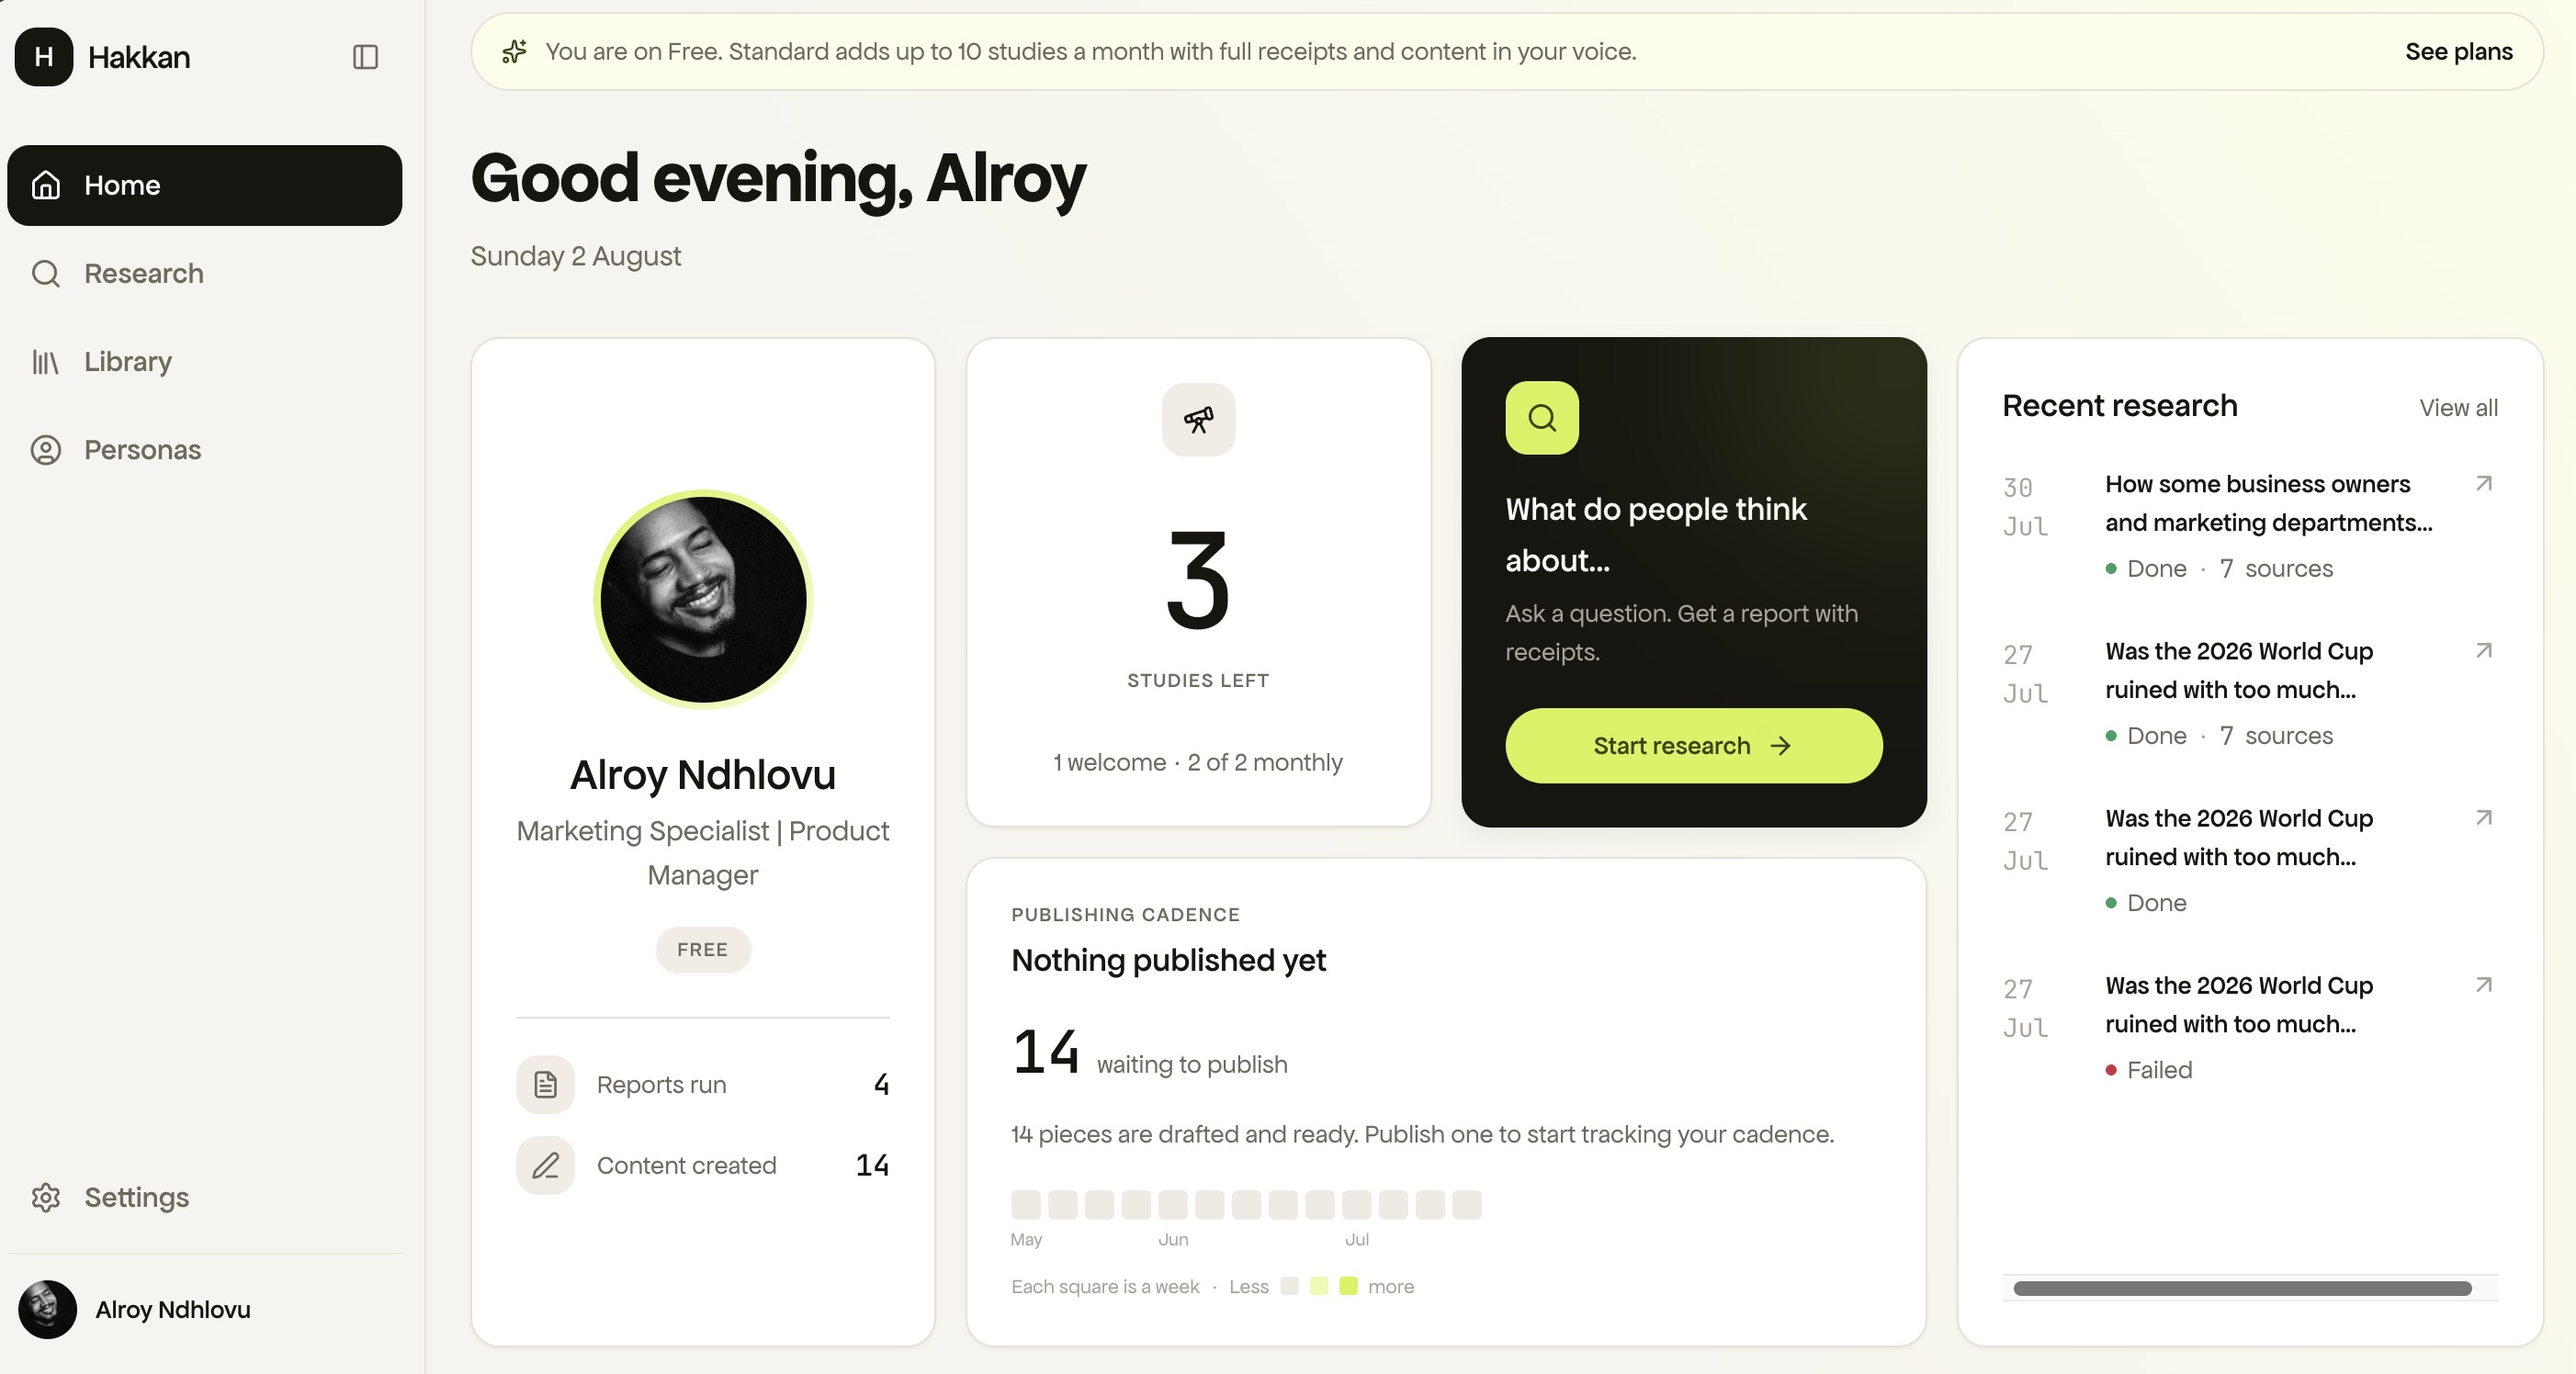
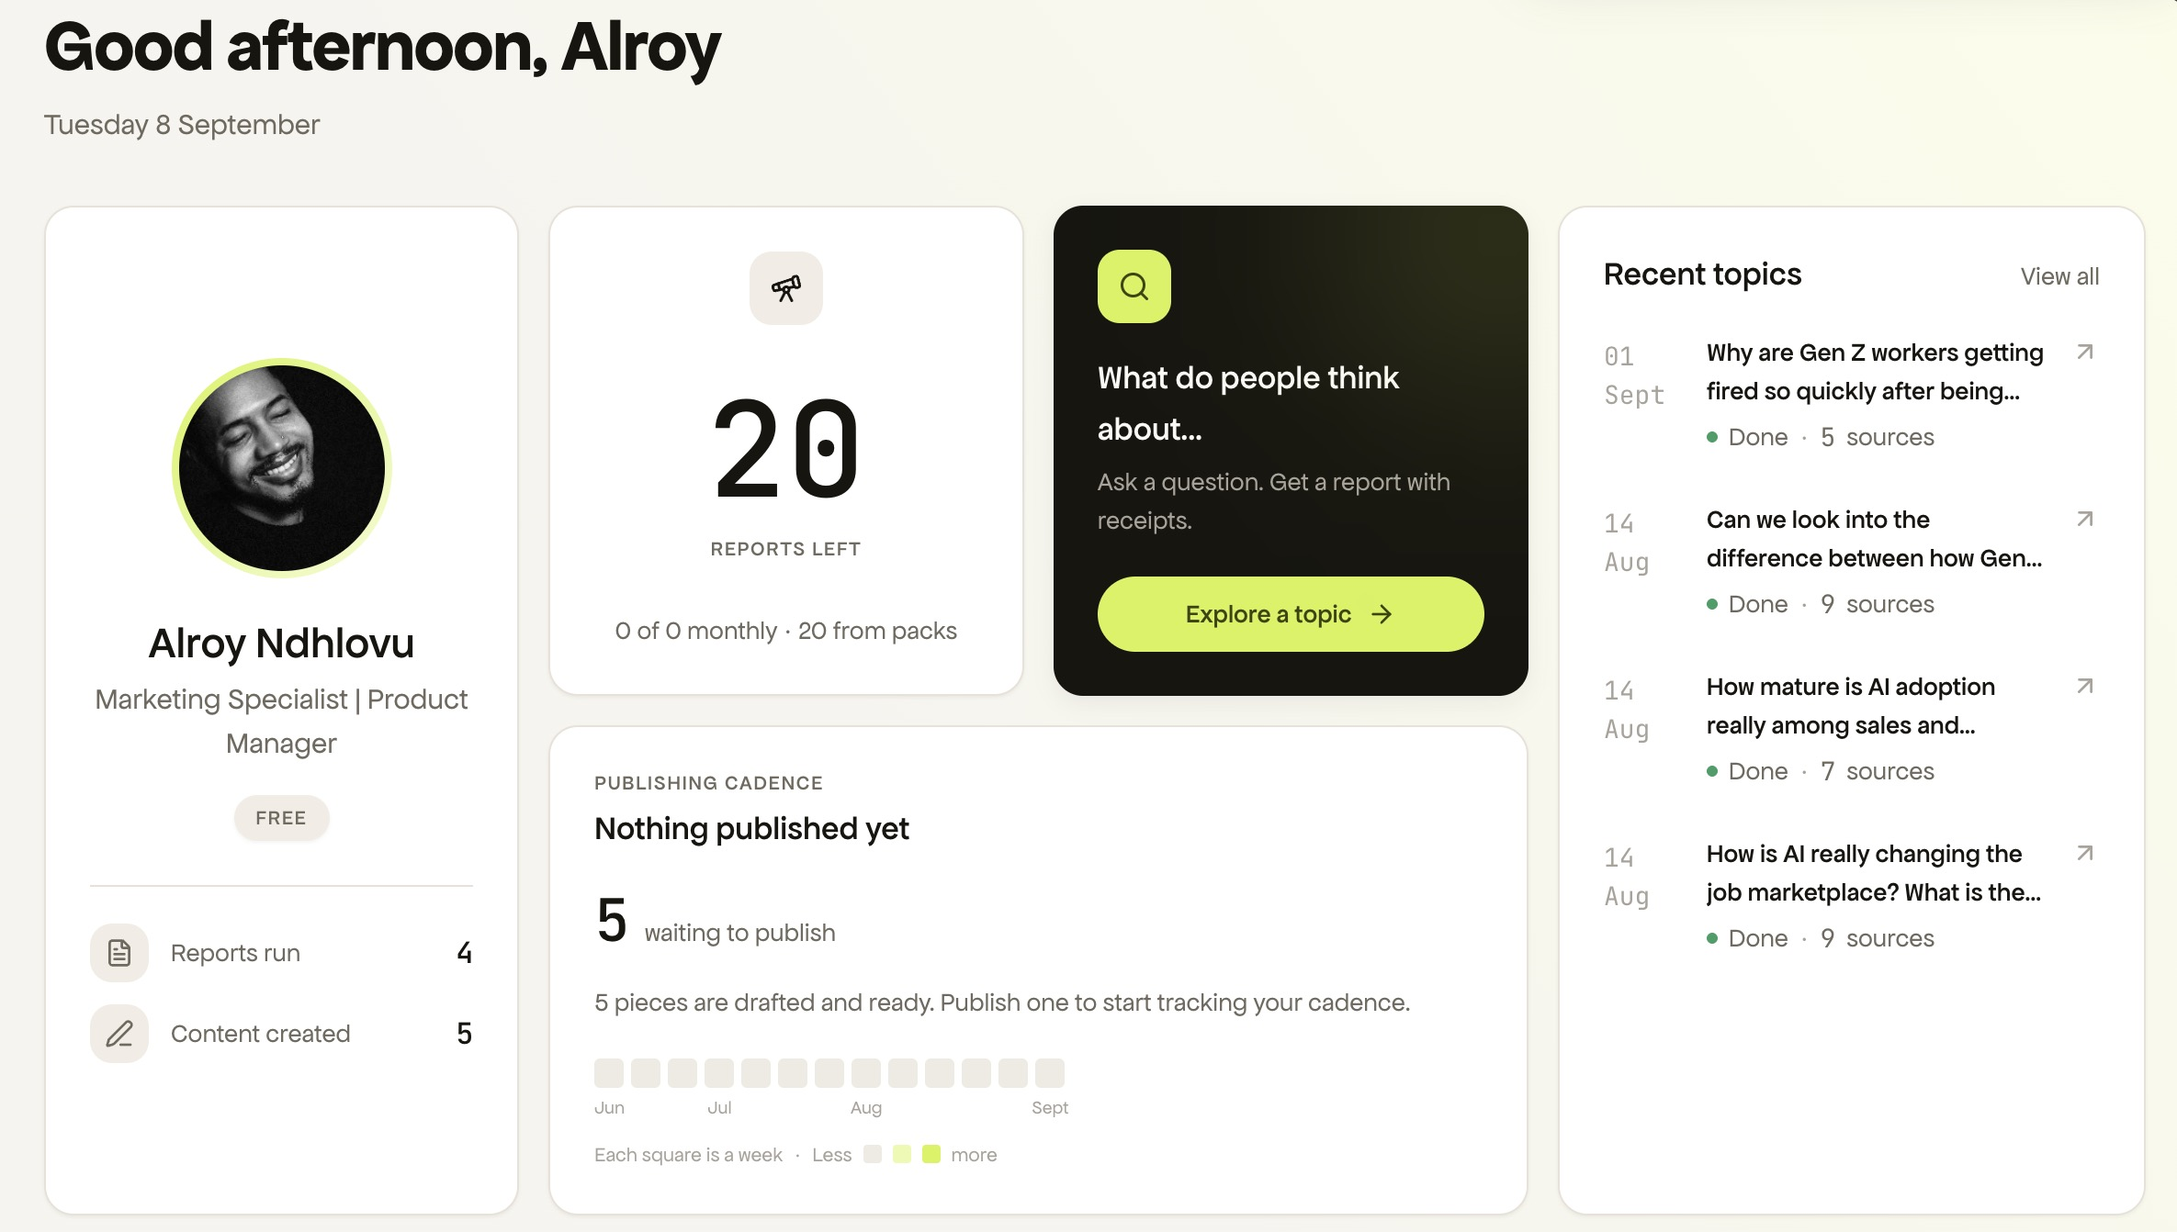
copy(hakkan): match the Explore/Report language pass
Hakkan renamed its Research screen to Explore and its billed unit from
Study to Report. Carries the same change here: "researches" -> "explores",
"study/studies" -> "report/reports", category "Research & Content" ->
"Content Discovery". Screenshots retaken against the live app so none of
the four still show the old "RESEARCH" / "studies left" chrome.

diff --git a/lib/apps.ts b/lib/apps.ts
@@ -508,14 +508,14 @@ export const apps: App[] = [
   {
     slug: "hakkan",
     name: "Hakkan",
-    category: "Research & Content",
+    category: "Content Discovery",
     tagline: "Worth listening to.",
     problem: "AI made content cheap to make. And worthless to read.",
     shortDescription:
-      "Researches the real conversation across social and the web, hands you a report with receipts, and turns it into thought leadership in your voice.",
+      "Explores the real conversation across social and the web, hands you a report with receipts, and turns it into thought leadership in your voice.",
     overview: [
-      "Most AI writing tools start from a blank page. Hakkan starts from research: sources first, then the draft. Give it a question and it reads the conversation where it actually happens, across Reddit, X, YouTube, TikTok, LinkedIn, Hacker News, reviews, news, and the open web, then returns a full report on the themes, the sentiment split, the voices, and where the evidence and the feelings diverge.",
-      "Every claim in that report carries receipts. Click any bar, theme, or line and you get the verbatim quotes with platform, author, and link. From there Hakkan turns the research into publishable work: posts, threads, carousels, blogs, newsletters, and video scripts, written in a voice profile learned from your own samples rather than a generic house style.",
+      "Most AI writing tools start from a blank page. Hakkan starts from the sources: it reads first, then drafts. Give it a question and it reads the conversation where it actually happens, across Reddit, X, YouTube, TikTok, LinkedIn, Hacker News, reviews, news, and the open web, then returns a full report on the themes, the sentiment split, the voices, and where the evidence and the feelings diverge.",
+      "Every claim in that report carries receipts. Click any bar, theme, or line and you get the verbatim quotes with platform, author, and link. From there Hakkan turns what it read into publishable work: posts, threads, carousels, blogs, newsletters, and video scripts, written in a voice profile learned from your own samples rather than a generic house style.",
     ],
     status: "Beta",
     platform: ["Web"],
@@ -529,7 +529,7 @@ export const apps: App[] = [
         icon: "Search",
         title: "One question, every platform",
         description:
-          "A single study sweeps social platforms and the open web at once, with a live pipeline showing exactly which sources were read and which failed.",
+          "A single report sweeps social platforms and the open web at once, with a live pipeline showing exactly which sources were read and which failed.",
       },
       {
         icon: "Quote",
@@ -547,7 +547,7 @@ export const apps: App[] = [
         icon: "PenTool",
         title: "Eight content formats",
         description:
-          "Turn one study into LinkedIn and X posts, threads, carousels, infographics, blog posts, newsletters, and short video scripts.",
+          "Turn one report into LinkedIn and X posts, threads, carousels, infographics, blog posts, newsletters, and short video scripts.",
       },
       {
         icon: "Mic",
@@ -559,13 +559,13 @@ export const apps: App[] = [
         icon: "Radar",
         title: "Topic Radar",
         description:
-          "Track the subjects you care about, watch interest move over time, and get a weekly shortlist of what is worth researching next.",
+          "Track the subjects you care about, watch interest move over time, and get a weekly shortlist of what is worth covering next.",
       },
       {
         icon: "Compass",
         title: "AI visibility",
         description:
-          "For brand studies, see how often AI answer engines name you and which sources those answers are citing.",
+          "For brand reports, see how often AI answer engines name you and which sources those answers are citing.",
       },
     ],
     story: [
@@ -585,8 +585,8 @@ export const apps: App[] = [
       },
       {
         eyebrow: "In your voice",
-        title: "Research becomes work you can publish.",
-        body: "Turn one study into posts, threads, carousels, blogs, newsletters, or scripts, written through a voice profile learned from your own samples rather than a generic house style.",
+        title: "The sources become work you can publish.",
+        body: "Turn one report into posts, threads, carousels, blogs, newsletters, or scripts, written through a voice profile learned from your own samples rather than a generic house style.",
         image: hakkanCreate,
         shape: "browser" as const,
       },
@@ -596,9 +596,9 @@ export const apps: App[] = [
     ctaHref: "https://hakkan.app",
     ctaExternal: true,
     seo: {
-      title: "Hakkan · Research-led thought leadership",
+      title: "Hakkan · Content-led thought leadership",
       description:
-        "Hakkan researches the real conversation across social and the web, returns a cited report you can defend, and turns it into thought leadership written in your voice.",
+        "Hakkan explores the real conversation across social and the web, returns a cited report you can defend, and turns it into thought leadership written in your voice.",
     },
     legal: {
       privacy: "https://hakkan.app/privacy",
